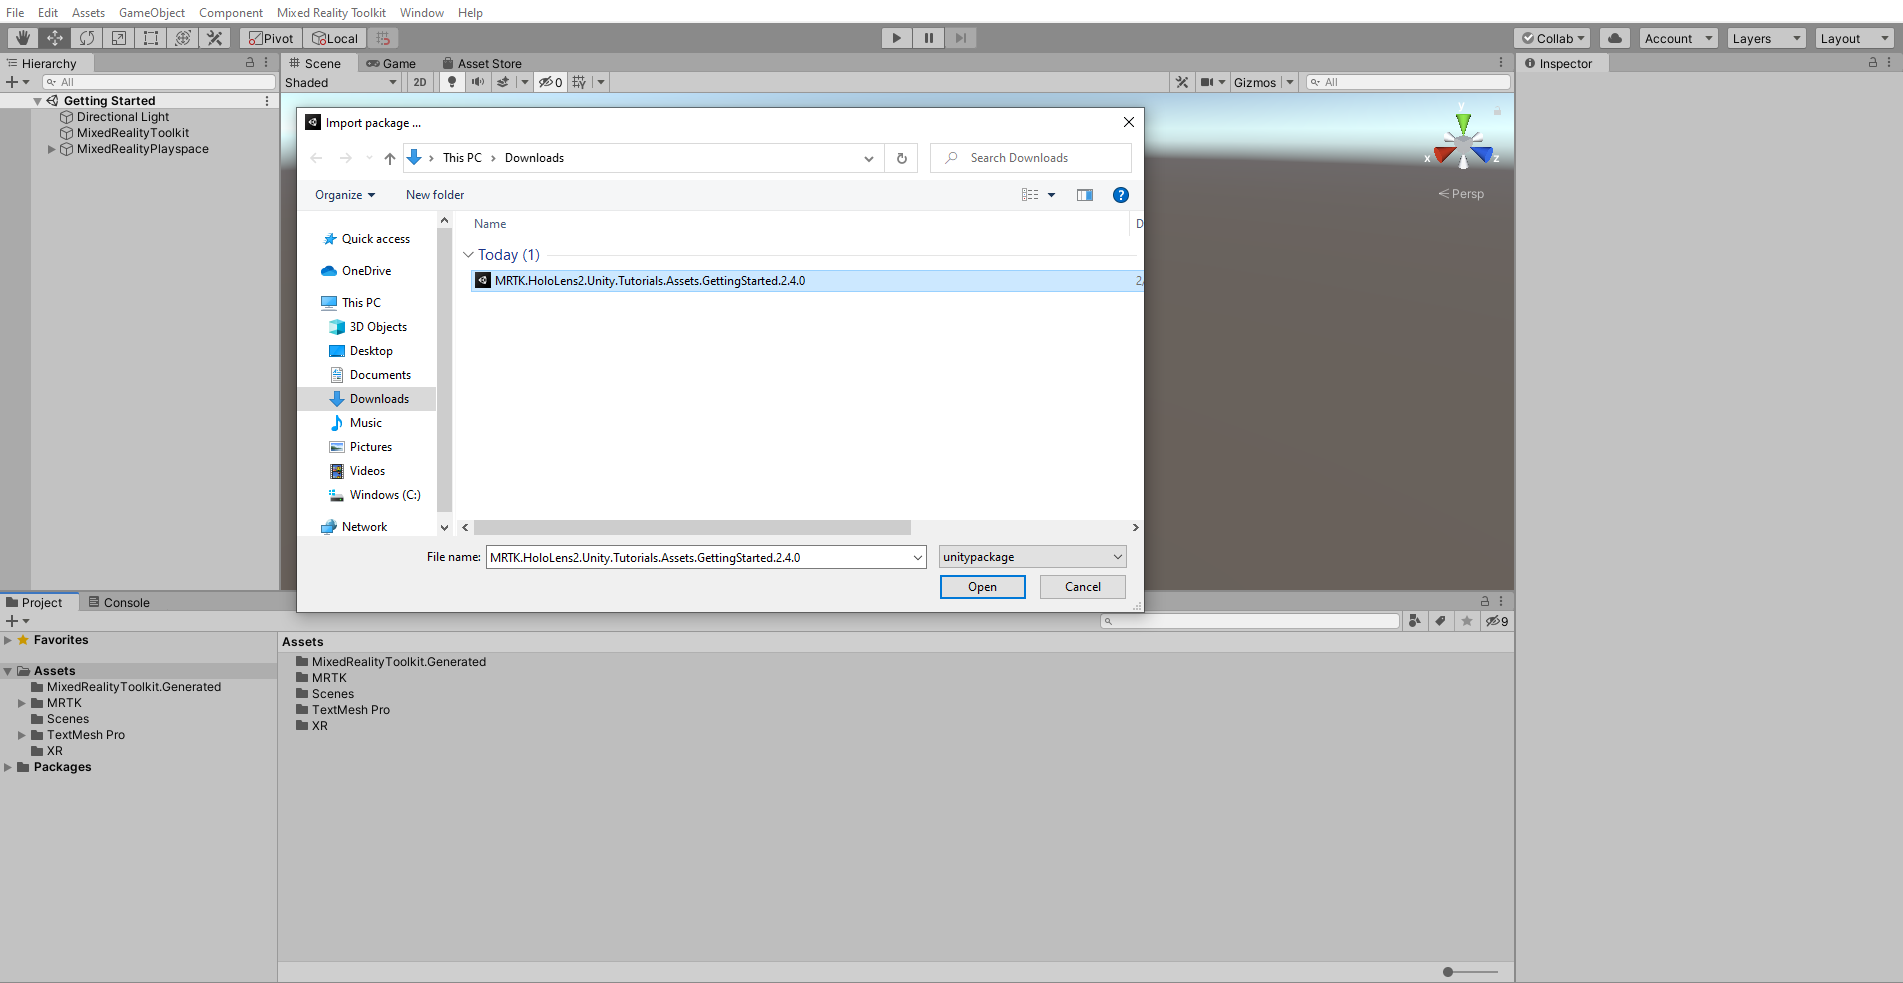
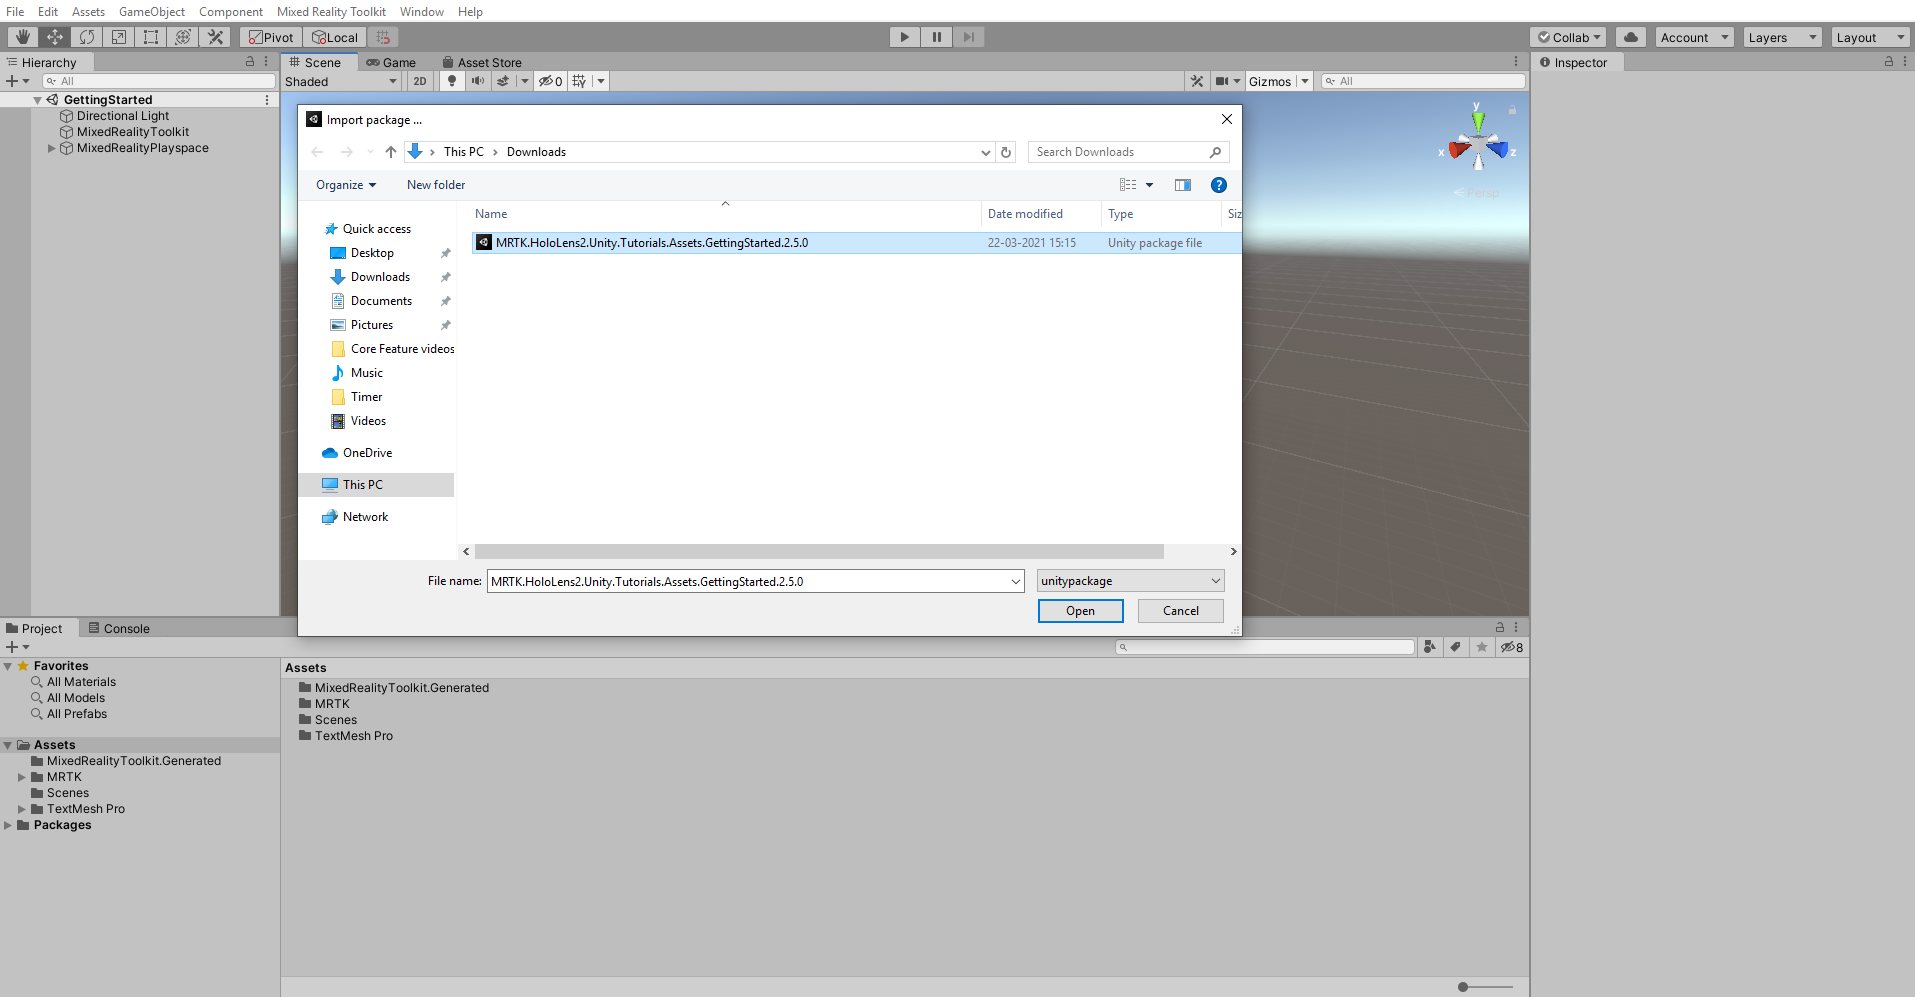
tutorial updated to include a cube for first deployed app

Changed region(s): [[0.0, 0.0, 1.0, 0.8545], [0.4651, 0.0, 0.5271, 0.061], [0.7441, 0.9766, 0.8061, 1.0]]

diff --git a/mixed-reality-docs/mr-dev-docs/develop/unity/tutorials/mr-learning-base-02.md b/mixed-reality-docs/mr-dev-docs/develop/unity/tutorials/mr-learning-base-02.md
@@ -11,7 +11,7 @@ ms.localizationpriority: high
 
 # 2. Initializing your project and deploying your first application
 
-In this tutorial, you'll learn how to create a new Unity project, configure it for <a href="https://github.com/microsoft/MixedRealityToolkit-Unity" target="_blank">Mixed Reality Toolkit (MRTK)</a> development, and import MRTK. You'll also walk through configuring, building, and deploying a basic Unity scene from Visual Studio to your HoloLens 2. Once you have deployed it to your HoloLens 2, you should see a spatial mapping mesh covering the surfaces that are perceived by the HoloLens. Additionally, you should see indicators on your hands and fingers for hand tracking and a frame rate counter for keeping an eye on app performance.
+In this tutorial, you'll learn how to create a new Unity project, configure it for <a href="https://github.com/microsoft/MixedRealityToolkit-Unity" target="_blank">Mixed Reality Toolkit (MRTK)</a> development, and import MRTK. You'll also walk through configuring, building, and deploying a basic Unity scene from Visual Studio to your HoloLens 2. Once you have deployed it to your HoloLens 2 you should be able to see and interact with the cube and also see a spatial mapping mesh covering the surfaces that are perceived by the HoloLens. Additionally, you should see indicators on your hands and fingers for hand tracking and a frame rate counter for keeping an eye on app performance.
 
 ## Objectives
 
@@ -200,13 +200,13 @@ In the Save Scene window, navigate to your project's **Scenes** folder, give you
 
 Download the following Unity custom package:
 
-* [MRTK.HoloLens2.Unity.Tutorials.Assets.GettingStarted.2.4.0.unitypackage](https://github.com/microsoft/MixedRealityLearning/releases/download/getting-started-v2.4.0/MRTK.HoloLens2.Unity.Tutorials.Assets.GettingStarted.2.4.0.unitypackage)
+* [MRTK.HoloLens2.Unity.Tutorials.Assets.GettingStarted.2.5.0.unitypackage](https://github.com/microsoft/MixedRealityLearning/releases/download/getting-started-v2.5.0/MRTK.HoloLens2.Unity.Tutorials.Assets.GettingStarted.2.5.0.unitypackage)
 
 To Import a Unity custom package, In the Unity menu, select **Assets** > **Import Package** > **Custom Package...** to open the Import package... window:
 
 ![Unity Hierarchy, Scene, and Project windows after importing the tutorial assets](images/mr-learning-base/base-02-section7-step1-1.png)
 
-In the Import package... window, select the **MRTK.HoloLens2.Unity.Tutorials.Assets.GettingStarted.2.4.0.unitypackage** you downloaded and click the Open button:
+In the Import package... window, select the **MRTK.HoloLens2.Unity.Tutorials.Assets.GettingStarted.2.5.0.unitypackage** you downloaded and click the Open button:
 
 ![Unity Hierarchy, Scene, and Project windows after importing the tutorial assets](images/mr-learning-base/base-02-section7-step1-2.png)
 
@@ -230,15 +230,25 @@ From the Project window, click-and-drag the **Cube** prefab on to the Hierarchy 
 
 ![Adding cube to the Scene](images/mr-learning-base/base-02-section8-step1-1.png)
 
+To focus in on the objects in the scene, you can double-click on the **Cube** object, and then zoom slightly in again:
+
+To interact and grab an object with tracked hands, the object must have Collider component for example a **Box Collider**,  **Object Manipulator (Script)** component and **NearInteractionGrabbable(Script)** component.
+
 With the **Cube** still selected in the Hierarchy window, in the Inspector window ,click on **Add Component** button, then search and select **Object Manipulator** script to add the Object Manipulator script to the cube object.
 
 ![adding Object manupulator to the cube](images/mr-learning-base/base-02-section8-step1-2.png)
 
-Repeat the same to add **Near Interaction Grabbable scripts** to the cube
+Repeat the same to add **Near Interaction Grabbable script** to the cube
 
 ![adding Near Interaction Grabable to the cube](images/mr-learning-base/base-02-section8-step1-3.png)
 
-Now enter to the gamemode,by holding the **Shift** key and left click on the mouse you can move the cube.
+> [!NOTE]
+> When you add a Object Manipulator (Script), in this case, the Constraint Manager (Script) is automatically added because Object Manipulator (Script) depends on it.
+
+> [!NOTE]
+> For the purpose of this tutorial, colliders have already been added to the Cube Object. To learn more about colliders, you can visit Unity's <a href="https://docs.unity3d.com/Manual/CollidersOverview.html" target="_blank">Collider</a> documentation.
+
+To test this in the Unity editor, you can enter the play mode and hold the **LeftShift** or **Space** key to enable the controller, Mouse movement will move the controller and also it can be moved further or closer to the camera using the mouse wheel. once the pointer is on the Cube  press and hold **Right Mouse Button** to move the the Cube object.
 
 ![Game Mode](images/mr-learning-base/base-02-section8-step1-4.png)
 
@@ -301,7 +311,7 @@ Select **Build > Deploy Solution** to deploy to your device without having the a
 
 ## Congratulations
 
-You've now deployed your first HoloLens app. As you walk around, you should see a spatial mapping mesh covering the surfaces that are perceived by the HoloLens. Additionally, you should see indicators on your hands and fingers for hand tracking and a frame rate counter for keeping an eye on app performance. These features are just a few foundational pieces included with MRTK. In the upcoming tutorials, you'll add content to your scene to explore the capabilities of HoloLens and the MRTK.
+You've now deployed your first HoloLens app. Once the app is opened you should see a Cube object in front of you and should be able to interact with the cube by moving it and also as you walk around, you should see a spatial mapping mesh covering the surfaces that are perceived by the HoloLens. Additionally, you should see indicators on your hands and fingers for hand tracking and a frame rate counter for keeping an eye on app performance. These features are just a few foundational pieces included with MRTK. In the upcoming tutorials, you'll add content to your scene to explore the capabilities of HoloLens and the MRTK.
 
 > [!div class="nextstepaction"]
 > [Next Tutorial: 3. Configuring the MRTK profiles](mr-learning-base-03.md)

diff --git a/mixed-reality-docs/mr-dev-docs/develop/unity/tutorials/mr-learning-asa-02.md b/mixed-reality-docs/mr-dev-docs/develop/unity/tutorials/mr-learning-asa-02.md
@@ -51,7 +51,6 @@ Add AzurespatialAnchors SDK V2.7.1 into your unity project, to add the packages 
 
 Download and **import** the following Unity custom packages **in the order they are listed**:
 
-
 * [MRTK.HoloLens2.Unity.Tutorials.Assets.GettingStarted.2.4.0.unitypackage](https://github.com/microsoft/MixedRealityLearning/releases/download/getting-started-v2.4.0/MRTK.HoloLens2.Unity.Tutorials.Assets.GettingStarted.2.4.0.unitypackage)
 * [MRTK.HoloLens2.Unity.Tutorials.Assets.AzureSpatialAnchors.2.4.0.unitypackage](https://github.com/microsoft/MixedRealityLearning/releases/download/azure-spatial-anchors-v2.5.3/MRTK.HoloLens2.Unity.Tutorials.Assets.AzureSpatialAnchors.2.5.3.unitypackage)
 
@@ -63,7 +62,7 @@ After you have imported the tutorial assets your Project window should look simi
 > If you see any CS0618 warnings regarding 'WorldAnchor.SetNativeSpatialAnchorPtr(IntPtr)' is obsolete, you can ignore these warnings.
 
 > [!TIP]
-> For a reminder on how to import a Unity custom package, you can refer to the [Importing the tutorial assets](mr-learning-base-04.md#importing-the-tutorial-assets) instructions.
+> For a reminder on how to import a Unity custom package, you can refer to the [Importing the tutorial assets](mr-learning-base-02.md#importing-the-tutorial-assets) instructions.
 
 ## Preparing the scene
 

diff --git a/mixed-reality-docs/mr-dev-docs/develop/unity/tutorials/mr-learning-sharing-02.md b/mixed-reality-docs/mr-dev-docs/develop/unity/tutorials/mr-learning-sharing-02.md
@@ -77,7 +77,7 @@ After you have imported the tutorial assets your Project window should look simi
 ![Unity Hierarchy, Scene, and Project windows after importing the tutorial assets](images/mr-learning-sharing/sharing-02-section4-step1-1.png)
 
 > [!TIP]
-> For a reminder on how to import a Unity custom package, you can refer to the [Importing the tutorial assets](mr-learning-base-04.md#importing-the-tutorial-assets) instructions.
+> For a reminder on how to import a Unity custom package, you can refer to the [Importing the tutorial assets](mr-learning-base-02.md#importing-the-tutorial-assets) instructions.
 
 > [!NOTE]
 > After importing the MultiUserCapabilities tutorial assets package, you will see several [CS0246](/dotnet/csharp/language-reference/compiler-messages/cs0246) errors in the Console window stating that the type or namespace is missing. This is expected and will be resolved in the next section when you import the PUN assets.

diff --git a/mixed-reality-docs/mr-dev-docs/develop/unity/tutorials/mr-learning-pc-holographic-remoting-01.md b/mixed-reality-docs/mr-dev-docs/develop/unity/tutorials/mr-learning-pc-holographic-remoting-01.md
@@ -62,7 +62,7 @@ Then follow the [Changing the Spatial Awareness Display Option](mr-learning-base
 Download and **import** the [MRTK.Tutorials.PCHolographicRemoting.unitypackage](https://github.com/microsoft/MixedRealityLearning/releases/download/pc-holographic-remoting-v2.4.0/MRTK.Tutorials.PCHolographicRemoting.unitypackage).
 
 >[!TIP]
-> For a reminder on how to import a Unity custom package, you can refer to the [Importing the tutorial assets](mr-learning-base-04.md#importing-the-tutorial-assets) instructions.
+> For a reminder on how to import a Unity custom package, you can refer to the [Importing the tutorial assets](mr-learning-base-02.md#importing-the-tutorial-assets) instructions.
 
 After importing the tutorial assets, your Project window should look similar to this:
 

diff --git a/mixed-reality-docs/mr-dev-docs/develop/unity/tutorials/mr-learning-azure-01.md b/mixed-reality-docs/mr-dev-docs/develop/unity/tutorials/mr-learning-azure-01.md
@@ -107,7 +107,7 @@ Download and **import** the following Unity custom packages **in the order they 
 * [MRTK.Tutorials.AzureCloudServices.unitypackage](https://github.com/microsoft/MixedRealityLearning/releases/download/azure-cloud-services-v2.4.0/MRTK.Tutorials.AzureCloudServices.unitypackage)
 
 > [!TIP]
-> For a reminder on how to import a Unity custom package, you can refer to the [Importing the tutorial assets](mr-learning-base-04.md#importing-the-tutorial-assets) instructions.
+> For a reminder on how to import a Unity custom package, you can refer to the [Importing the tutorial assets](mr-learning-base-02.md#importing-the-tutorial-assets) instructions.
 
 After you have imported the tutorial assets your Project window should look similar to this:
 

diff --git a/mixed-reality-docs/mr-dev-docs/develop/unity/tutorials/mrlearning-speechSDK-ch1.md b/mixed-reality-docs/mr-dev-docs/develop/unity/tutorials/mrlearning-speechSDK-ch1.md
@@ -58,7 +58,7 @@ With the **MixedRealityToolkit** object selected in the Hierarchy window, in the
 ![mrlearning-speech](images/mrlearning-speech/tutorial1-section2-step1-1.png)
 
 > [!TIP]
-> For a reminder on how to import a Unity custom package, you can refer to the [Importing the tutorial assets](mr-learning-base-04.md#importing-the-tutorial-assets) instructions.
+> For a reminder on how to import a Unity custom package, you can refer to the [Importing the tutorial assets](mr-learning-base-02.md#importing-the-tutorial-assets) instructions.
 
 ## Configuring the capabilities
 

diff --git a/mixed-reality-docs/mr-dev-docs/develop/unity/tutorials/unity-spatial-audio-ch1.md b/mixed-reality-docs/mr-dev-docs/develop/unity/tutorials/unity-spatial-audio-ch1.md
@@ -66,7 +66,7 @@ Download and import the Microsoft Spatializer  <a href="https://github.com/micro
 </a>
 
 >[!TIP]
-> For a reminder on how to import a Unity custom package, you can refer to the [Importing the tutorial assets](mr-learning-base-04.md#importing-the-tutorial-assets) instructions.
+> For a reminder on how to import a Unity custom package, you can refer to the [Importing the tutorial assets](mr-learning-base-02.md#importing-the-tutorial-assets) instructions.
 
 ## Enable the Microsoft Spatializer plugin
 
